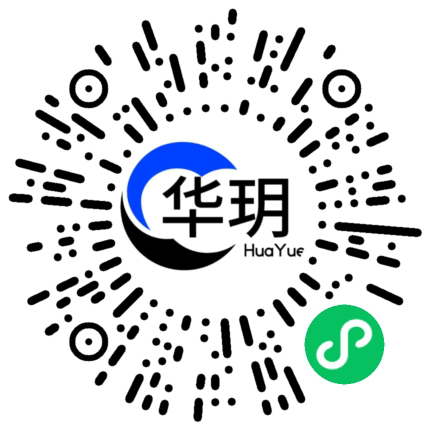
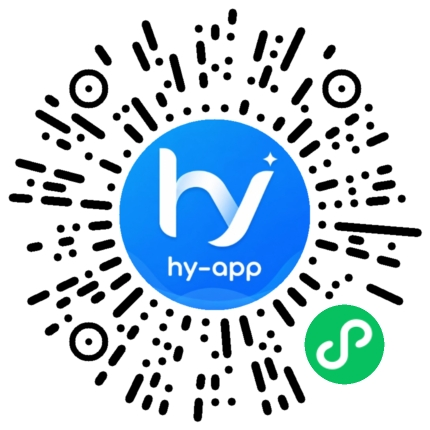
style: 修改预览二维码

Changed region(s): [[0.2721, 0.2721, 0.7256, 0.7256]]

diff --git a/docs/.vitepress/components/DemoModel.vue b/docs/.vitepress/components/DemoModel.vue
@@ -25,8 +25,8 @@
                     :src="href"
                     class="iframe"
                     frameborder="0"
-                    scrolling="auto"
-                    style="touch-action: none; overflow: auto"
+                    scrolling="no"
+                    style="touch-action: none"
                 ></iframe>
             </div>
             <!--  主体  -->
@@ -59,7 +59,7 @@
     });
     const { isDark } = useData();
     const baseUrl = ref(
-        import.meta.env.DEV ? 'http://localhost:5173/#/' : 'https://h5.hy-design-uni.top/#/'
+        import.meta.env.DEV ? 'http://localhost:8070/#/' : 'https://h5.hy-design-uni.top/#/'
     );
     const href = computed(() => {
         return props.url.indexOf('http') === 0 ? props.url : `${baseUrl.value}${props.url}`;
@@ -234,6 +234,15 @@
             .iframe {
                 height: 100%;
                 width: 100%;
+                overflow: hidden;
+                scrollbar-width: none;
+                -ms-overflow-style: none;
+
+                &::-webkit-scrollbar {
+                    display: none;
+                    width: 0;
+                    height: 0;
+                }
             }
         }
 

diff --git a/docs/.vitepress/components/PreviewDome.vue b/docs/.vitepress/components/PreviewDome.vue
@@ -46,7 +46,7 @@
 
         <!-- 鸿蒙程序 -->
         <a-card hoverable style="width: 210px">
-            <img :src="appQrCode" />
+            <img :src="harmonyQrCode" />
             <template #actions>
                 <div class="platform-name">
                     华玥UI（鸿蒙）
@@ -75,6 +75,7 @@
     const weixinQrCode = '/images/qrcode/weixin_qrcode.png';
     const aliQrCode = '/images/qrcode/ali_qrcode.jpg';
     const appQrCode = '/images/qrcode/app_qrcode.png';
+    const harmonyQrCode = '/images/qrcode/harmonyOS_qrcode.png';
 </script>
 
 <style scoped lang="scss">

diff --git a/docs/en/guide/announcements.md b/docs/en/guide/announcements.md
@@ -1,39 +1,39 @@
-::: tip Reason
+::: tip Cause
 
-The `scoped` style in Vue single-file components conflicts with the style isolation mechanism of mini-program components, causing external style classes to not penetrate into the component.
+The `scoped` styles of Vue Single File Components conflict with the mini-program component style isolation mechanism, preventing external style classes from penetrating into the component's internals.
 
 :::
 
 ### :one: Page Solution
 
-In uni-app, use the deep selector `:deep()` to force penetration through double-layer style isolation:
+In uni-app, use the deep selector `:deep()` to force penetration through the double-layer style isolation:
 
 ```html
 <template>
-    <!-- Refer to the component and pass custom-class -->
+    <!-- Reference the component and pass in custom-class -->
     <hy-button custom-class="my-button">Confirm Submission</hy-button>
 </template>
 
 <style lang="scss" scoped>
-    /* ✅ Correct: Wrap the custom-class with :deep() */
+    /* ✅ Correct: Use :deep() to wrap the custom-class class name */
     :deep(.my-button) {
         background: linear-gradient(135deg, #667eea 0%, #764ba2 100%);
         border-radius: 20rpx;
     }
 
-    /* ⚠ Incorrect: Writing the class name directly will be isolated by scoped */
+    /* ⚠ Wrong: Writing the class name directly will be isolated by scoped */
     .my-button {
-        /* This method is ineffective */
+        /* This syntax is invalid */
         background: red;
     }
 </style>
 ```
 
-### :two: Custom Component Library Styles Inside the Current Component
+### :two: Customizing Component Library Styles Within the Current Component
 
-> When using `Huayue Components` within a custom component, the `styleIsolation: 'shared'` option must be enabled.
+> When using `Hy components` inside custom components, you need to enable the `styleIsolation: 'shared'` option
 
-**For Vue 3.2 and earlier versions, you can enable the `styleIsolation: 'shared'` option with the following configuration:**
+**For `Vue 3.2` and below, you can enable the `styleIsolation: 'shared'` option with the following configuration:**
 
 ```vue
 <script lang="ts">
@@ -46,7 +46,7 @@ In uni-app, use the deep selector `:deep()` to force penetration through double-
 <script lang="ts" setup></script>
 ```
 
-**For Vue 3.3+ and above, you can enable the `styleIsolation: 'shared'` option with `defineOptions`:**
+**In `Vue 3.3+`, you can enable the `styleIsolation: 'shared'` option via `defineOptions`:**
 
 ```vue
 <script lang="ts" setup>
@@ -58,16 +58,16 @@ In uni-app, use the deep selector `:deep()` to force penetration through double-
 </script>
 ```
 
-## :bulb: Problem Three: If you encounter the following warning during runtime or compilation:
+## :bulb: Issue 3: If the following warning appears when running or compiling the project:
 
 ```shell
 Deprecation Warning [legacy-js-api]:
 The legacy JS API is deprecated and will be removed in Dart Sass 2.0.0.
 ```
 
-This is a deprecation warning introduced from Dart Sass 1.79+ and does not indicate a runtime error in the project. The legacy JavaScript API (render / renderSync) has been deprecated by the official and will be completely removed in Dart Sass 2.0.
+This is a new deprecation notice introduced in `Dart Sass 1.79+`; it is not a project runtime error. The legacy JavaScript API (render / renderSync) has been officially deprecated and will be completely removed in `Dart Sass 2.0`.
 
-If your project uses Vite 5.4+ or Vite 6+, it is recommended to enable the new Sass compiler in `vite.config.ts`:
+If your project uses Vite 5.4+ or Vite 6+, it is recommended to enable the new Sass compiler in vite.config.ts:
 
 ```ts
 import { defineConfig } from 'vite';
@@ -84,6 +84,14 @@ export default defineConfig({
 });
 ```
 
-## 💡 Problem Four: When using hy-app theme variables in VS Code, Trae, Cursor, etc. editors, auto-completion is not available
+## 💡 Issue 4: Autocomplete is not available for hy-app theme variables in editors such as VS Code, Trae, and Cursor
 
-This is because the editor cannot default identify Sass variables in node_modules. Please install the `Some Sass` plugin first. After installation, please reopen the project, and you will be able to use the hy-app theme variables for auto-completion and hover hints.
+This is because editors cannot recognize Sass variables from node_modules by default. Please install the `Some Sass` extension first. Once installed, reopen the project, and you will get features such as autocomplete and hover hints for hy-app theme variables.
+
+## Issue 5: When using hy-button in the WeChat Mini Program, tapping the button triggers event bubbling
+
+You can use `tap.stop` to prevent click event bubbling:
+
+```html
+<hy-button text="Button" @tap.stop="click1($event)"></hy-button>
+```

diff --git a/docs/api/hooks.md b/docs/api/hooks.md
@@ -24,20 +24,36 @@
 
 **示例**
 
-```typescript
+1. 单页面使用
+某个页面想自定义分享内容时，在 `<script setup>` 中配合 `@dcloudio/uni-app` 的钩子注册：
+```typescript [Index.vue]
+<script setup lang="ts">
+import { onShareAppMessage, onShareTimeline } from '@dcloudio/uni-app'
+import { useShare } from '@hy-app/ui'
+
+const share = useShare({
+  title: '页面标题',
+  path: '/pages/index/index',
+  friendImageUrl: '/static/share-friend.png',
+  timelineImageUrl: '/static/share-timeline.png'
+})
+
+// 注册到页面级，优先于全局 mixin 的默认分享
+onShareAppMessage(share.onShareAppMessage)
+onShareTimeline(share.onShareTimeline)
+</script>
+```
+
+2. 全局使用
+> 全局注册后，微信小程序右上角菜单的“转发给朋友/分享到朋友圈”即可用，无需每个页面单独写。
+```typescript [main.ts]
 import { useShare } from '@hy-app/ui';
 
-const { onShareAppMessage, onShareTimeline } = useShare({
-    title: '华玥组件库',
-    path: '/pages/index/index',
-    friendImageUrl: '/static/share friend.png',
-    timelineImageUrl: '/static/share_timeline.png',
-});
-
-defineExpose({
-    onShareAppMessage,
-    onShareTimeline,
-});
+app.mixin(
+  useShare({
+    title: '华玥组件库'
+  })
+)
 ```
 
 ---

diff --git a/docs/guide/announcements.md b/docs/guide/announcements.md
@@ -87,3 +87,9 @@ export default defineConfig({
 ## 💡 问题四：在 VS Code、Trae、Cursor 等编辑器中，使用 hy-app 主题变量时无法获得自动补全
 
 这是因为编辑器默认无法识别node_modules的 Sass 变量。请先安装 `Some Sass` 插件，安装完成后重新打开项目，即可获得 hy-app 主题变量的自动补全、悬停提示等功能。
+
+## 问题五：在微信小程序使用hy-button时候，点击按钮会触发冒泡事件
+你可以使用`tap.stop`进行点击阻止冒泡事件
+```html
+<hy-button text="按钮" @tap.stop="click1($event)"></hy-button>
+```
